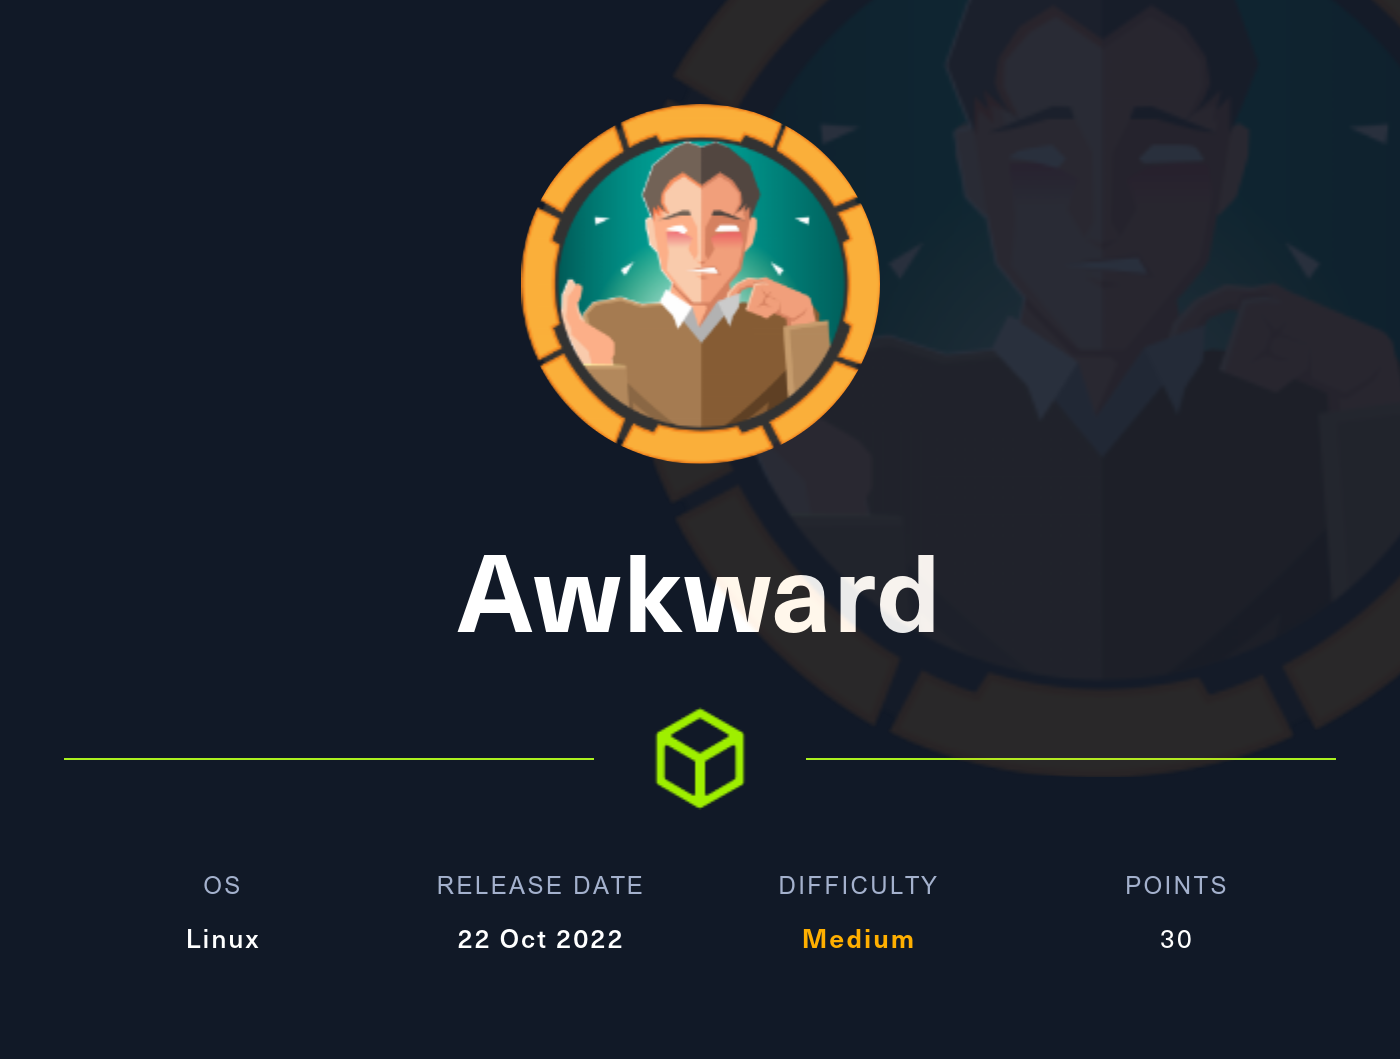
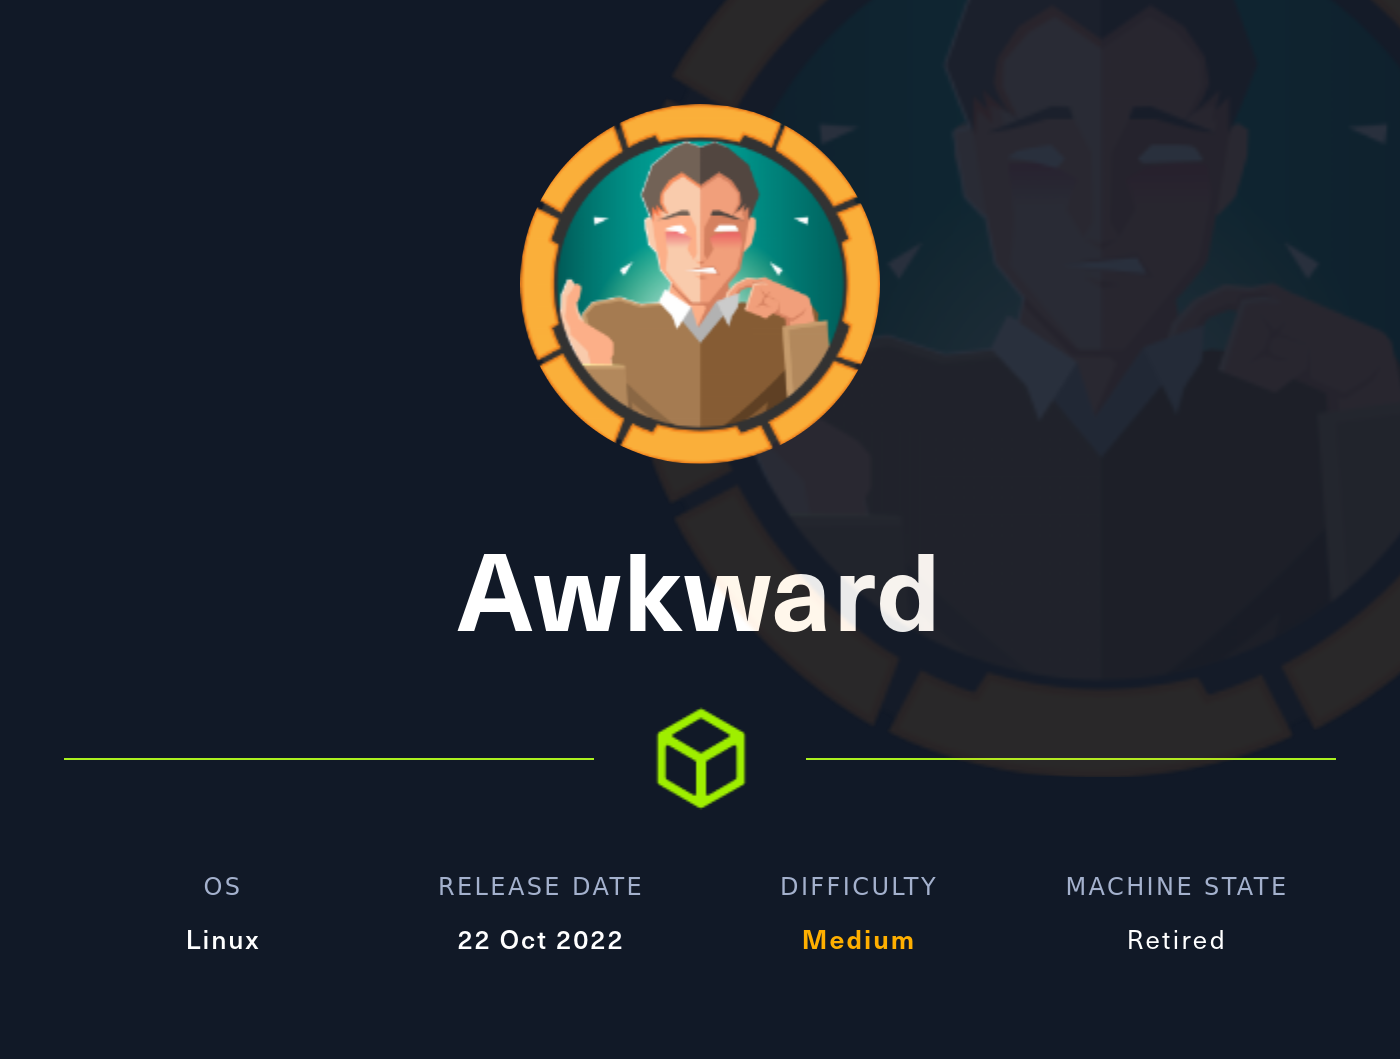
moved comments to discord server
regenerated box icons in png compressed format

diff --git a/_layouts/default.html b/_layouts/default.html
@@ -43,7 +43,7 @@
       <ul>
         <li><a href="{{ site.baseurl }}{% link index.html %}">home</a></li>
         <li><a href="{{ site.baseurl }}{% link all-tags.html %}">all tags</a></li>
-        <li><a href="{{ site.baseurl }}{% link comments.html %}">comments</a></li>
+        <li><a href="{{ site.baseurl }}{% link discord.html %}">discord</a></li>
         <li><a href="{{ site.baseurl }}{% link aboutus.html %}">about us</a></li>
       </ul>
     </nav>

diff --git a/discord.html b/discord.html
@@ -1,0 +1,10 @@
+---
+layout: default
+title: "Discord"
+permalink: /discord/
+meta: "Let's keep in touch!"
+---
+
+<h3>Discord server invite</h3>
+
+<a href="https://discord.gg/tx8xcsM8mj" target="_blank"><p style="font-family:'Lucida Console', monospace; word-break: break-all;">https://discord.gg/tx8xcsM8mj</p></a>

diff --git a/_posts/2022-11-30-Photobomb.md b/_posts/2022-11-30-Photobomb.md
@@ -12,7 +12,7 @@ meta: "The box starts with a command injection vulnerability due to a bad filety
 
 <br><br>
 
-![Photobomb box HTB](/assets/images/machines/Photobomb/Photobomb.jpg)
+![Photobomb box HTB](/assets/images/machines/Photobomb/Photobomb.png)
 
 ## Enumeration
 
